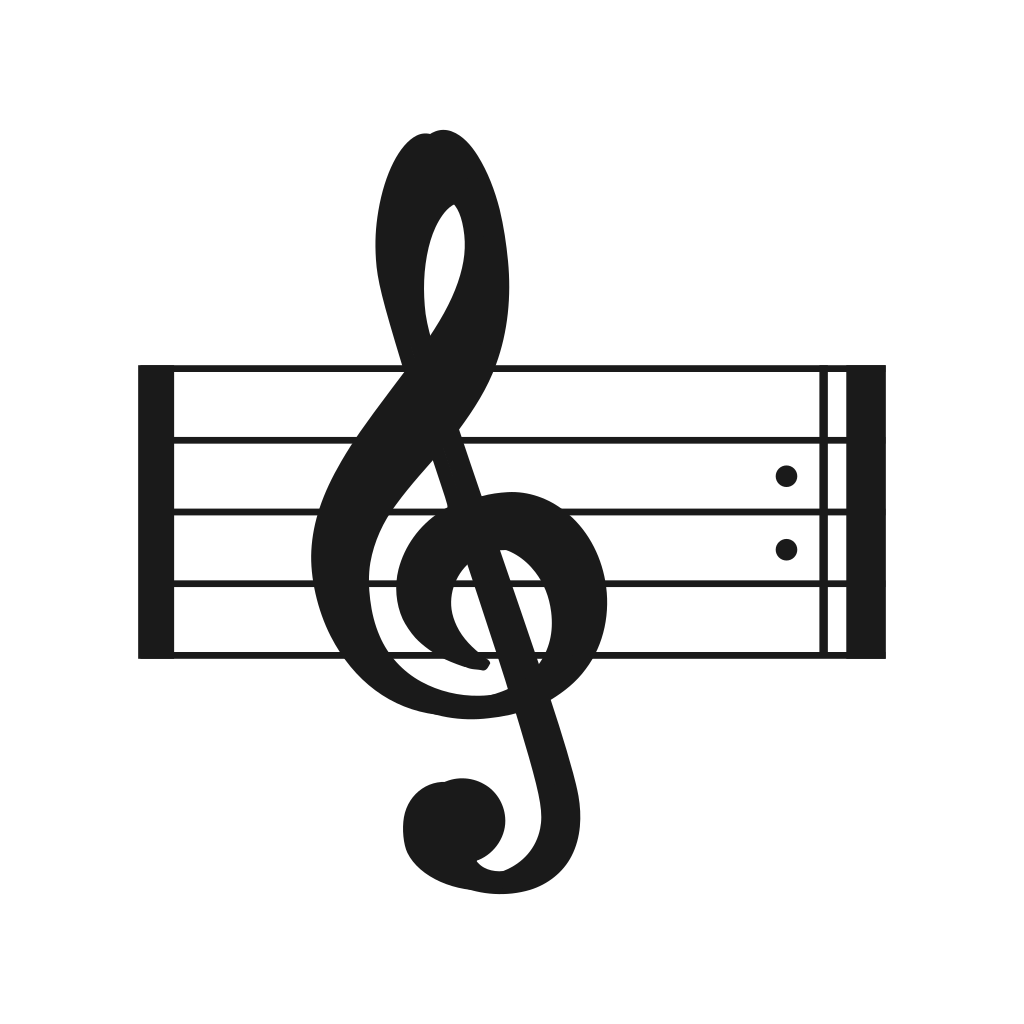
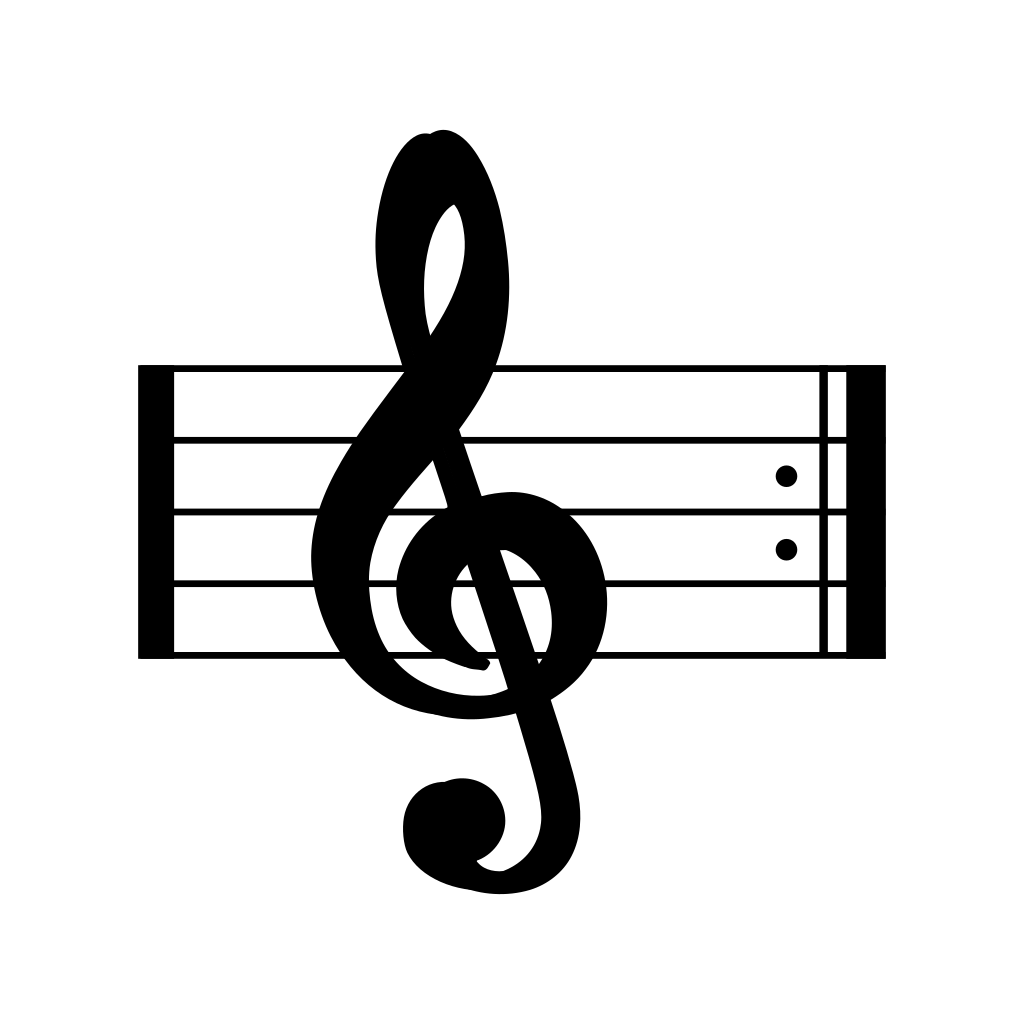
fix: icones monochromes noir pur

Changed region(s): [[0.125, 0.125, 0.875, 0.875]]

diff --git a/CHANGELOG.md b/CHANGELOG.md
@@ -1,10 +1,16 @@
 # CHANGELOG
 
+## [1.1.1] - 2026-02-22
+
+### Fixed
+
+- Les icônes monochromes n'étaient pas réalisées avec du noir pur et donc n'étaient pas bien prises en compte.
+
 ## [1.1.0] - 2026-02-16
 
 ### Added
 
-- Icônes monochromes
+- Icônes monochromes.
 
 ## [1.0.0] - 2026-02-10
 
